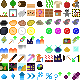
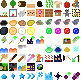
feat: Add 3 new Resources (prestige)

Changed region(s): [[0.5432, 0.8889, 0.7654, 0.9877], [0.3457, 0.9136, 0.4444, 0.9877], [0.2222, 0.8889, 0.321, 0.9877]]

diff --git a/src/data/resources.js b/src/data/resources.js
@@ -813,6 +813,46 @@ export const Resources = {
     keepOnPrestige: true,
     position: [8, 1]
   }),
+  Empowerer: new Resource({
+    name: "Empowerer",
+    cost: (have) => ({
+      "DivineShard": 1+Math.floor(have**1.2)
+    }),
+    craftTime: 60,
+    unlockAt: {
+      "DivineShard": 1
+    },
+    keepOnPrestige: true,
+    position: [8, 2]
+  }),
+  FastForward: new Resource({
+    name: "FastForward",
+    cost: (have) => ({
+      "DivineShard": 10*(1+have**1.5/3),
+      "Cluster": 1+have
+    }),
+    craftTime: 600,
+    unlockAt: {
+      "Empowerer": 1
+    },
+    effectMultiply: (savefile) => {
+      let FastForward = savefile[Resources.FastForward.order].have
+      return 1+(FastForward)*(FastForward+1)/20;
+    },
+    keepOnPrestige: true,
+    position: [8, 3]
+  }),
+  Cluster: new Resource({
+    name: "Cluster",
+    cost: (have) => ({
+      [ResourceArr[Math.min(71, have+1)] ? ResourceArr[Math.min(71, have+1)].name : "DivineShard"]: 10
+    }),
+    craftTime: 10,
+    unlockAt: {
+      "Empowerer": 1
+    },
+    position: [8, 6]
+  }),
   ReplicantiBoost: new Resource({
     name: "ReplicantiBoost",
     cost: (have) => ({
@@ -929,6 +969,7 @@ export function getCooldown(name, savefile) {
     craftTime /= Math.max(1, savefile.resources[AutoConnected[order]].have);
     craftTime /= ResourceArr[AutoConnected[order]].effectMultiply(savefile.resources);
   }
+  craftTime /= Resources.FastForward.effectMultiply(savefile.resources);
 
   return craftTime;
 }
